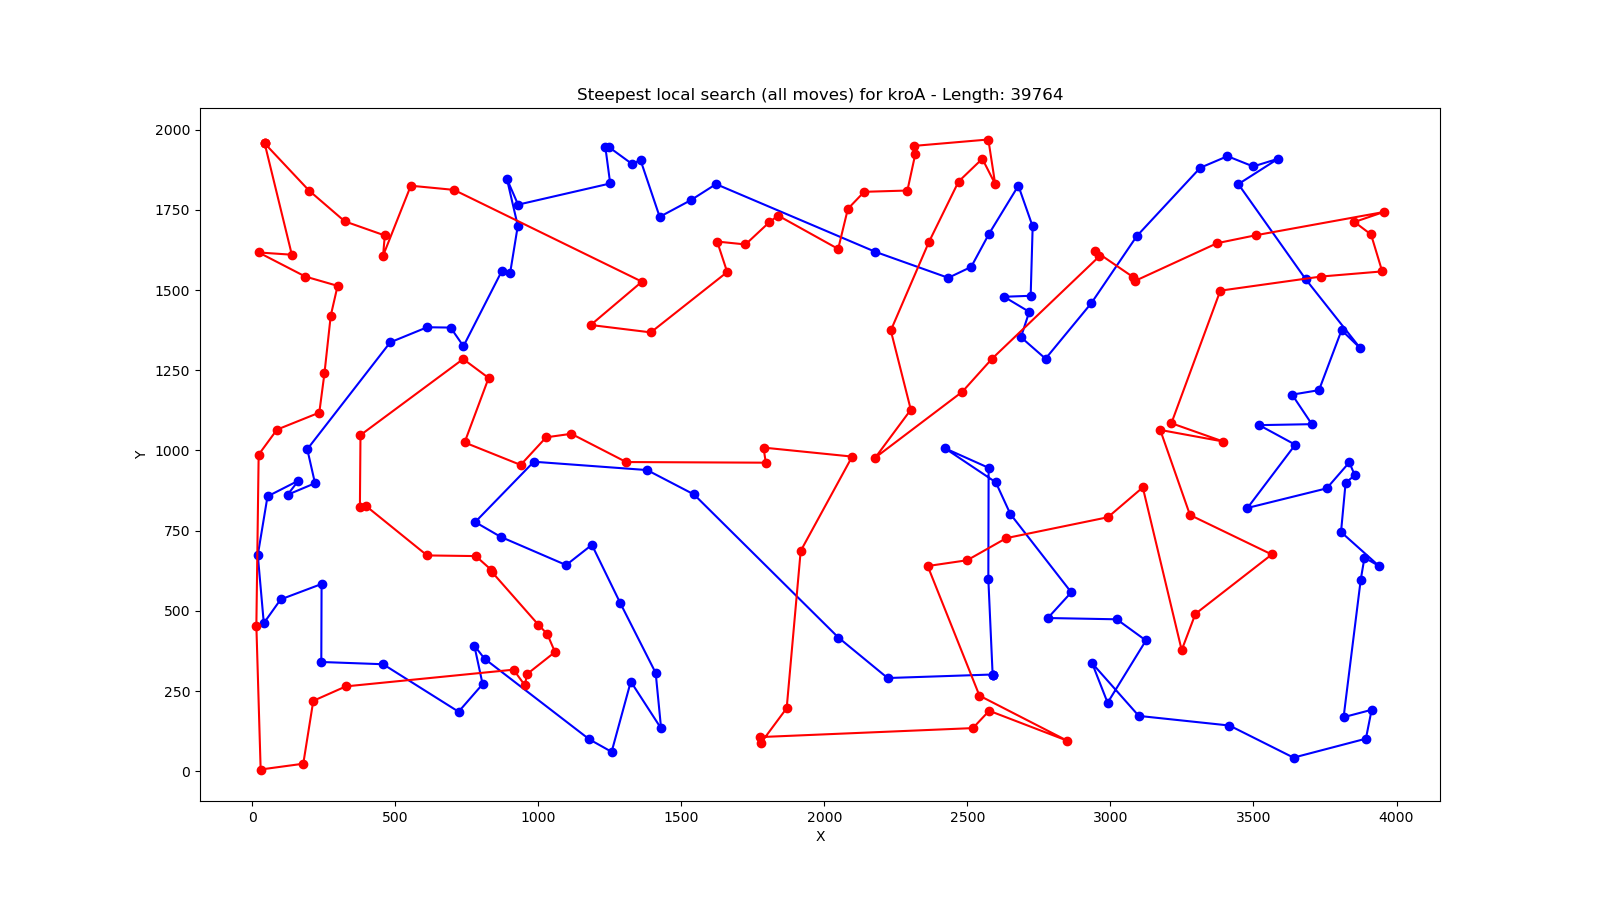
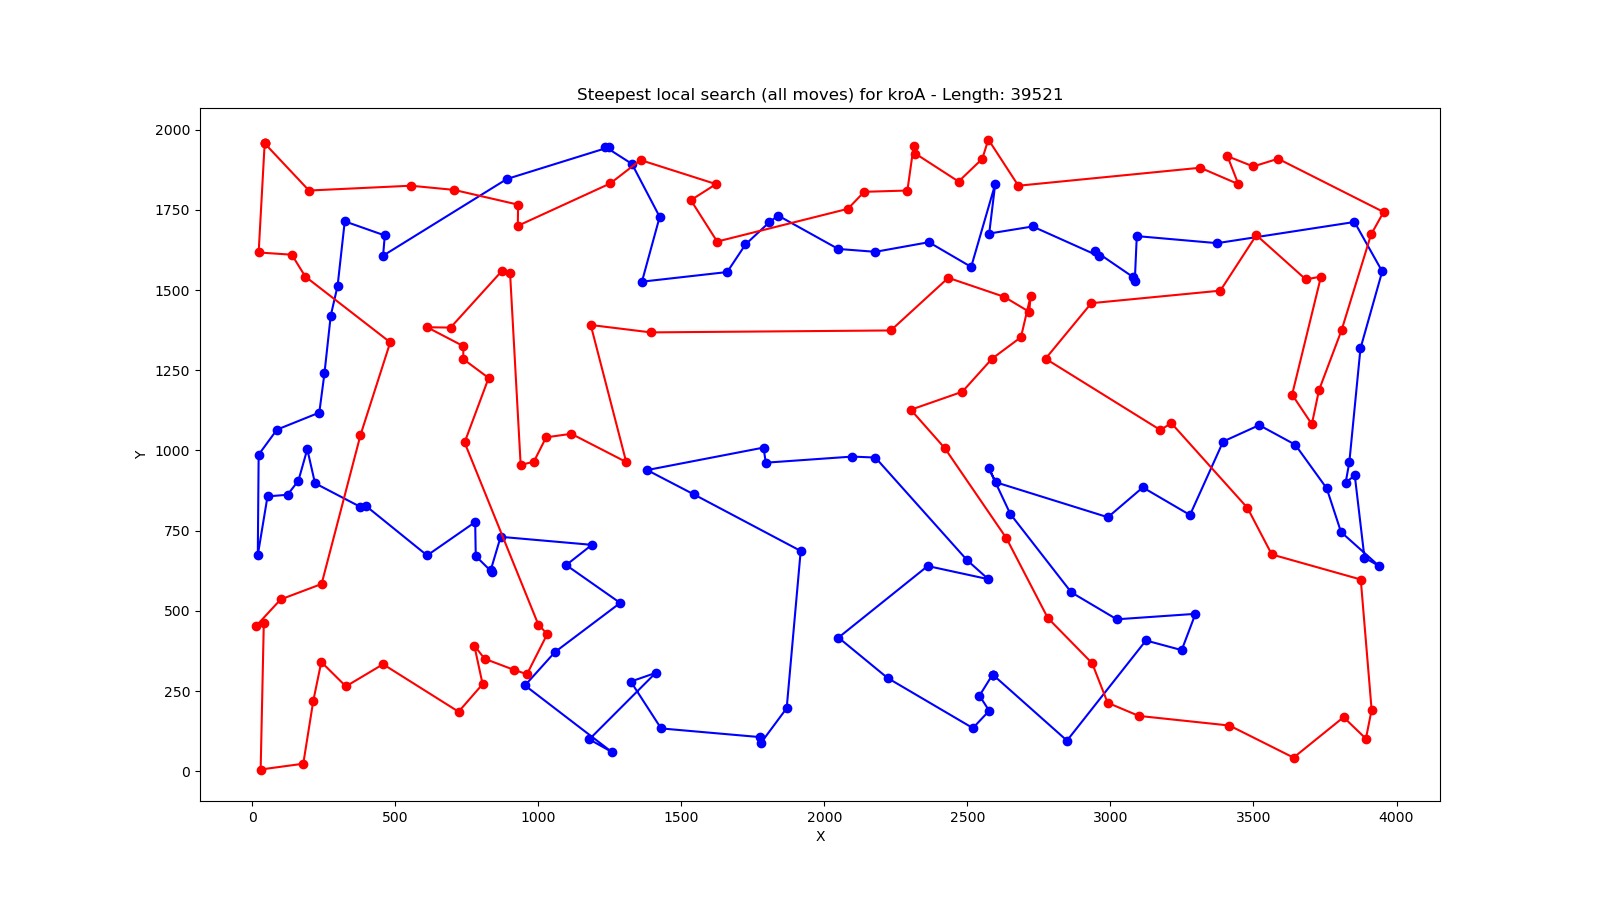
działający sąsiad

diff --git a/local_search.py b/local_search.py
@@ -150,3 +150,63 @@ def steepest_original(distance_matrix, first_cycle, second_cycle):
 
     execution_time = time.time() - start_time
     return (first_cycle, second_cycle), best_length, execution_time
+
+def get_candidate_edges(distance_matrix, k=10):
+    """
+    Wyznacza krawędzie kandydackie dla każdego wierzchołka.
+    """
+    candidate_edges = {}
+    num_nodes = distance_matrix.shape[0]
+    for i in range(num_nodes):
+        nearest_neighbors = np.argsort(distance_matrix[i])[:k + 1]  # +1, aby uwzględnić wierzchołek i
+        candidate_edges[i] = [j for j in nearest_neighbors if j != i]
+    return candidate_edges
+
+def steepest_original_with_candidates(distance_matrix, first_cycle, second_cycle, k=10):
+    """
+    Wersja lokalnego przeszukiwania z mechanizmem kandydackim, wykorzystująca funkcje z swaps.py.
+    """
+    start_time = time.time()
+    best_length = cycle_length(first_cycle, distance_matrix) + cycle_length(second_cycle, distance_matrix)
+
+    # Wyznacz krawędzie kandydackie
+    candidate_edges = get_candidate_edges(distance_matrix, k)
+
+    improved = True
+    while improved:
+        improved = False
+        best_delta = 0
+        best_move = None
+
+        # Sprawdzanie zamian między cyklami
+        for new_first, new_second, delta in og_swaps.swap_nodes_between_cycles_with_candidates(first_cycle, second_cycle, distance_matrix, candidate_edges):
+            if delta < best_delta:
+                best_delta = delta
+                best_move = ('both', new_first, new_second)
+
+        # Sprawdzanie zamian krawędzi w obrębie pierwszego cyklu (2-opt move)
+        for new_cycle, delta in og_swaps.swap_edges_within_cycle_with_candidates(first_cycle, distance_matrix, candidate_edges):
+            if delta < best_delta:
+                best_delta = delta
+                best_move = ('first', new_cycle)
+
+        # Sprawdzanie zamian krawędzi w obrębie drugiego cyklu (2-opt move)
+        for new_cycle, delta in og_swaps.swap_edges_within_cycle_with_candidates(second_cycle, distance_matrix, candidate_edges):
+            if delta < best_delta:
+                best_delta = delta
+                best_move = ('second', new_cycle)
+
+        # Wykonanie najlepszego ruchu
+        if best_move is not None:
+            if best_move[0] == 'both':
+                first_cycle, second_cycle = best_move[1], best_move[2]
+            elif best_move[0] == 'first':
+                first_cycle = best_move[1]
+            elif best_move[0] == 'second':
+                second_cycle = best_move[1]
+
+            best_length += best_delta
+            improved = True
+
+    execution_time = time.time() - start_time
+    return (first_cycle, second_cycle), best_length, execution_time

diff --git a/main.py b/main.py
@@ -10,32 +10,59 @@ if __name__ == "__main__":
     kroa200_cycle1_random, kroa200_cycle2_random, _ = utils.initialize_random_cycles(kroa200_matrix)
     krob200_cycle1_random, krob200_cycle2_random, _ = utils.initialize_random_cycles(krob200_matrix)
 
-    utils.run_test_lab1("Weighted Regret Heuristic kroA200", kroa200_matrix, kroa200_coords, weighted_regret_heuristic)
-    utils.run_test_lab1("Weighted Regret Heuristic kroB200", krob200_matrix, krob200_coords, weighted_regret_heuristic)
+    # utils.run_test_lab1("Weighted Regret Heuristic kroA200", kroa200_matrix, kroa200_coords, weighted_regret_heuristic)
+    # utils.run_test_lab1("Weighted Regret Heuristic kroB200", krob200_matrix, krob200_coords, weighted_regret_heuristic)
+
+    # utils.run_test_lab2(
+    #     "kroA: Steepest search (original)",
+    #     kroa200_matrix,
+    #     kroa200_coords,
+    #     kroa200_cycle1_random,
+    #     kroa200_cycle2_random,
+    #     local_search.steepest_original
+    # )
+
+    # utils.run_test_lab2(
+    #     "kroB: Steepest search (original)",
+    #     krob200_matrix,
+    #     krob200_coords,
+    #     krob200_cycle1_random,
+    #     krob200_cycle2_random,
+    #     local_search.steepest_original
+    # )
+
+    # utils.run_test_lab2(
+    #     "Steepest local search (all moves) for kroA",
+    #     kroa200_matrix,
+    #     kroa200_coords,
+    #     kroa200_cycle1_random,
+    #     kroa200_cycle2_random,
+    #     steepest_alg.steepest_full
+    # )
+
+    # utils.run_test_lab2(
+    #     "Steepest local search (all moves) for kroB",
+    #     krob200_matrix,
+    #     krob200_coords,
+    #     krob200_cycle1_random,
+    #     krob200_cycle2_random,
+    #     steepest_alg.steepest_full
+    # )
 
     utils.run_test_lab2(
-        "kroA: Steepest search (original)",
+        "Steepest candidate for kroA",
         kroa200_matrix,
         kroa200_coords,
         kroa200_cycle1_random,
         kroa200_cycle2_random,
-        local_search.steepest_original
+        local_search.steepest_original_with_candidates
     )
 
     utils.run_test_lab2(
-        "Steepest local search (all moves) for kroA",
-        kroa200_matrix,
-        kroa200_coords,
-        kroa200_cycle1_random,
-        kroa200_cycle2_random,
-        steepest_alg.steepest_full
-    )
-
-    utils.run_test_lab2(
-        "Steepest local search (all moves) for kroB",
+        "Steepest candidate for kroB",
         krob200_matrix,
         krob200_coords,
         krob200_cycle1_random,
         krob200_cycle2_random,
-        steepest_alg.steepest_full
+        local_search.steepest_original_with_candidates
     )

diff --git a/swaps.py b/swaps.py
@@ -53,3 +53,46 @@ def swap_edges_within_cycle(cycle, distance_matrix):
                             distance_matrix[cycle[j]][cycle[j + 1]])
 
             yield new_cycle, delta
+
+def swap_nodes_between_cycles_with_candidates(first_cycle, second_cycle, distance_matrix, candidate_edges):
+    """
+    Zamienia wierzchołki między cyklami, ograniczając do kandydatów.
+    """
+    n1, n2 = len(first_cycle) - 1, len(second_cycle) - 1
+    for i in range(1, n1):
+        for j in range(1, n2):
+            # Sprawdź, czy wierzchołki są kandydatami
+            if second_cycle[j] in candidate_edges[first_cycle[i]] or first_cycle[i] in candidate_edges[second_cycle[j]]:
+                new_first = first_cycle[:]
+                new_second = second_cycle[:]
+                new_first[i], new_second[j] = new_second[j], new_first[i]
+
+                delta = (distance_matrix[new_first[i - 1]][new_first[i]] +
+                         distance_matrix[new_first[i]][new_first[i + 1]] +
+                         distance_matrix[new_second[j - 1]][new_second[j]] +
+                         distance_matrix[new_second[j]][new_second[j + 1]]) - (
+                                distance_matrix[first_cycle[i - 1]][first_cycle[i]] +
+                                distance_matrix[first_cycle[i]][first_cycle[i + 1]] +
+                                distance_matrix[second_cycle[j - 1]][second_cycle[j]] +
+                                distance_matrix[second_cycle[j]][second_cycle[j + 1]])
+
+                yield new_first, new_second, delta
+
+def swap_edges_within_cycle_with_candidates(cycle, distance_matrix, candidate_edges):
+    """
+    Zamienia krawędzie w obrębie cyklu, ograniczając do kandydatów.
+    """
+    n = len(cycle) - 1
+    for i in range(1, n - 1):
+        for j in range(i + 2, n):
+            # Sprawdź, czy wierzchołki są kandydatami
+            if cycle[j] in candidate_edges[cycle[i]]:
+                new_cycle = cycle[:]
+                new_cycle[i:j + 1] = reversed(new_cycle[i:j + 1])
+
+                delta = (distance_matrix[new_cycle[i - 1]][new_cycle[i]] +
+                         distance_matrix[new_cycle[j]][new_cycle[j + 1]]) - (
+                                distance_matrix[cycle[i - 1]][cycle[i]] +
+                                distance_matrix[cycle[j]][cycle[j + 1]])
+
+                yield new_cycle, delta
